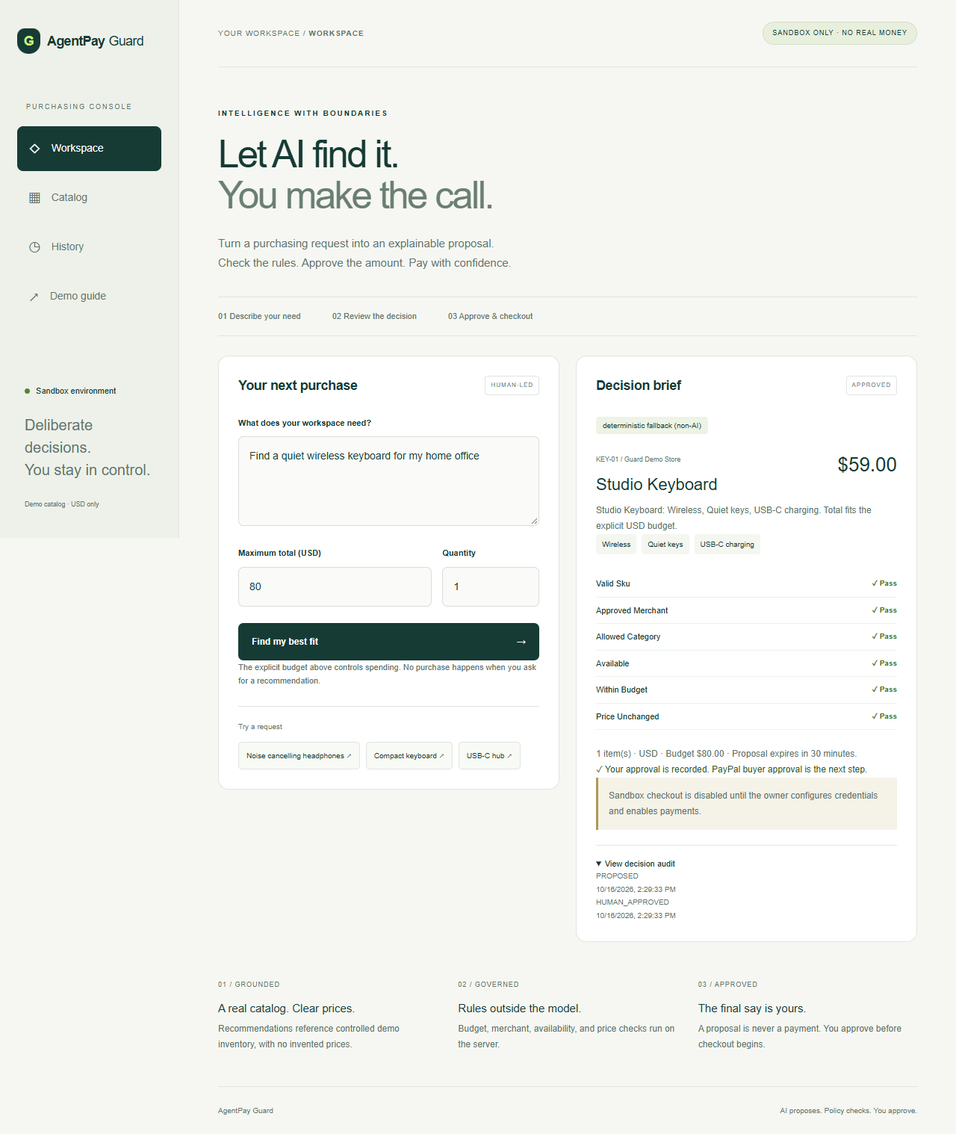
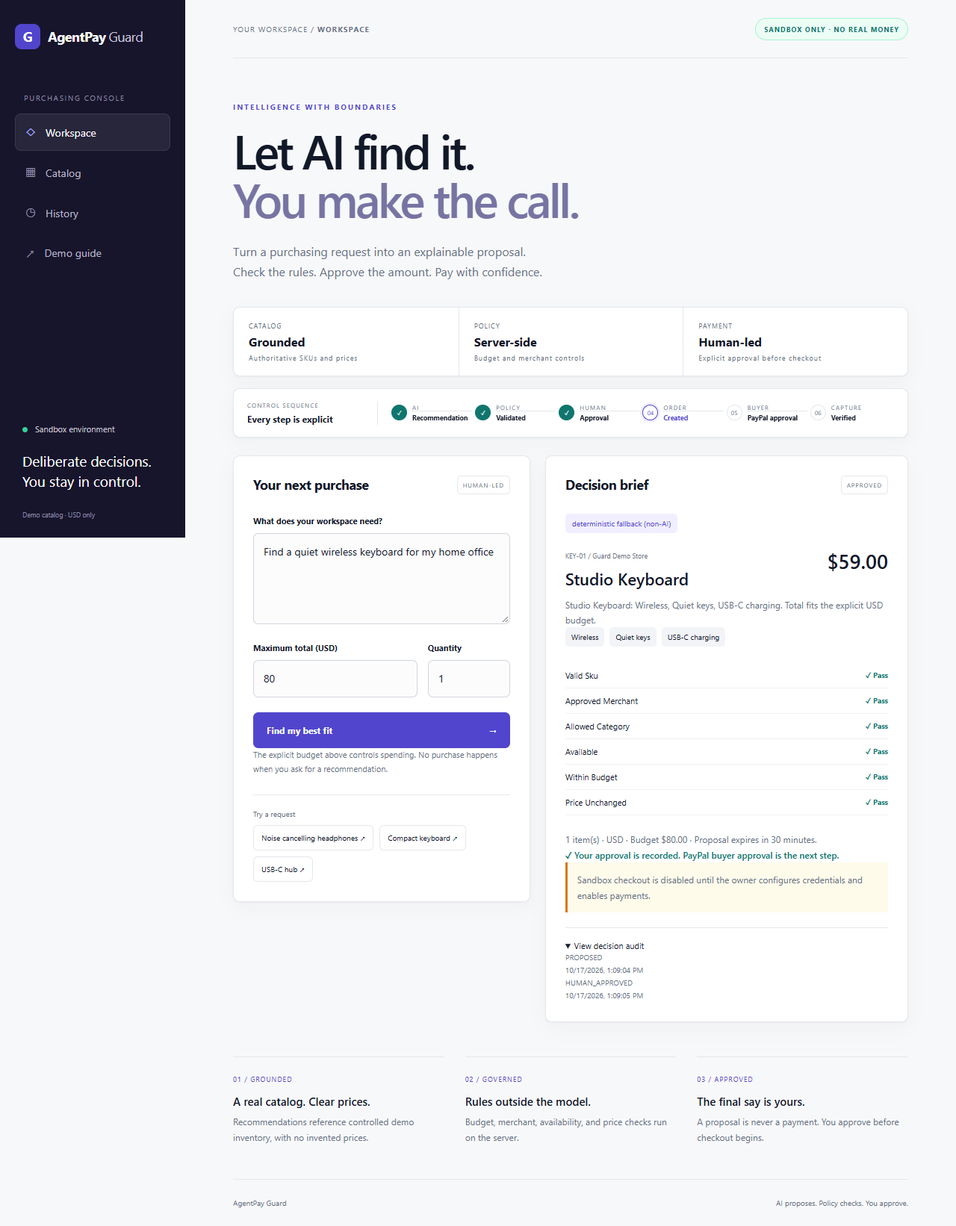
Redesign premium fintech purchase workflow

diff --git a/frontend/app/globals.css b/frontend/app/globals.css
@@ -1,2 +1,5 @@
 @import "tailwindcss";
-:root{--ink:#163b35;--muted:#61736d;--line:#dfe6df;--accent:#c9f27a}*{box-sizing:border-box}body{margin:0;background:#f6f7f2;color:var(--ink);font-family:Arial,Helvetica,sans-serif;font-size:14px}button,input,textarea{font:inherit}button,a,input,textarea,summary{-webkit-tap-highlight-color:transparent}button,summary{cursor:pointer}button:disabled{cursor:wait;opacity:.6}button:focus-visible,a:focus-visible,input:focus-visible,textarea:focus-visible,summary:focus-visible{outline:3px solid #648c29;outline-offset:4px}button{transition:background .15s}a{color:inherit;text-decoration:none}.shell{display:grid;grid-template-columns:240px 1fr;min-height:100vh}aside{padding:38px 23px;background:#edf1e9;border-right:1px solid var(--line);position:sticky;top:0;height:100vh;display:flex;flex-direction:column}.brand{font-weight:750;font-size:18px;display:flex;align-items:center;gap:5px;letter-spacing:-.7px}.brand>span:last-child{font-weight:400}.brand-mark{display:grid;place-items:center;width:31px;height:34px;border-radius:10px 10px 15px 15px;background:var(--ink);color:var(--accent);margin-right:4px}.workspace-label{font-size:9px;letter-spacing:2px;color:var(--muted);margin:65px 12px 18px}.nav{display:flex;gap:14px;align-items:center;border:0;background:transparent;color:var(--muted);width:100%;padding:15px;border-radius:8px;text-align:left;margin-bottom:6px}.nav span{font-size:20px}.nav.active{background:var(--ink);color:white}.nav:hover:not(.active){background:#e0e6dc}.sidebar-note{margin-top:auto;font-size:11px;padding:20px 10px 0}.dot{display:inline-block;width:7px;height:7px;background:#508532;border-radius:50%;margin-right:5px}.sidebar-note p{font-size:20px;line-height:1.5;margin:22px 0}.sidebar-note small{color:var(--muted)}main{padding:0 5%;min-width:0}header{height:90px;border-bottom:1px solid var(--line);display:flex;justify-content:space-between;align-items:center;font-size:10px;letter-spacing:1px;gap:12px}header>span:first-child{color:var(--muted)}.pill{background:#e8efdd;border:1px solid #d3dfc6;padding:8px 12px;border-radius:20px;font-size:9px;white-space:nowrap}.intro{margin:54px 0 32px}.eyebrow{font-size:10px;font-weight:700;letter-spacing:2px;margin-bottom:20px}h1{font-size:clamp(36px,4vw,60px);font-weight:500;letter-spacing:-2.7px;line-height:1.08;margin:18px 0 23px}h1 span{color:#6a7f72}p{color:var(--muted);line-height:1.75}h2{font-size:18px;font-weight:600;letter-spacing:-.4px}h3{font-size:22px;line-height:1.35;font-weight:500}.intro p{font-size:15px}.steps{display:flex;border-top:1px solid var(--line);border-bottom:1px solid var(--line);padding:17px 0;gap:42px;font-size:11px;color:var(--muted);margin-bottom:26px}.work-grid{display:grid;grid-template-columns:1fr 1fr;gap:22px;align-items:start}.card{background:#fff;border:1px solid var(--line);border-radius:14px;padding:26px}.card-heading{display:flex;align-items:center;justify-content:space-between;gap:8px;margin-bottom:28px}.card-heading h2{margin:0}.mini{font-size:8px;letter-spacing:1px;border:1px solid var(--line);border-radius:4px;padding:6px 7px;white-space:nowrap;color:var(--muted)}label{display:block;font-size:11px;font-weight:600;margin-bottom:10px}textarea,input{background:#fafbf8;border:1px solid #d7dfd7;border-radius:7px;color:var(--ink);padding:14px;width:100%;line-height:1.65}textarea{height:120px;resize:vertical}.fields{display:grid;grid-template-columns:2fr 1fr;gap:14px;margin:22px 0}.primary{background:var(--ink);color:white;padding:16px 18px;border:0;border-radius:7px;width:100%;text-align:left;font-size:12px;font-weight:600;display:flex;justify-content:space-between}.primary:hover{background:#28564b}.fine{font-size:11px;line-height:1.7}.suggestions{margin-top:24px;border-top:1px solid var(--line);padding-top:19px;display:flex;flex-wrap:wrap;gap:8px}.suggestions>span{width:100%;font-size:10px;color:var(--muted);margin-bottom:5px}.suggestions button,.secondary{border:1px solid var(--line);background:#f8faf5;border-radius:5px;padding:10px;font-size:10px;color:var(--ink)}.decision{min-height:460px}.empty{text-align:center;padding:20px 0}.orbit{height:85px;width:85px;display:grid;place-items:center;border:1px solid #d9e3cc;border-radius:50%;margin:10px auto 23px;font-size:48px;background:#f1f7e9;color:#75944a;box-shadow:0 0 0 12px #fafcf7}.empty p{font-size:12px;max-width:240px;margin:0 auto 35px}.trust-row{display:flex;gap:24px;justify-content:center;font-size:10px;color:var(--muted)}.principles{display:grid;grid-template-columns:repeat(3,1fr);gap:28px;margin:45px 0}.principles span{font-size:9px;letter-spacing:1px;color:var(--muted)}.principles h3{font-size:15px;margin:13px 0 7px}.principles p{font-size:12px;margin:0}.mode{font-size:10px;background:#edf3e5;border-radius:4px;padding:6px 9px}.product-title{display:flex;justify-content:space-between;gap:12px;margin-top:24px}.product-title small{font-size:9px;color:var(--muted)}.product-title h3{margin:10px 0}.product-title>strong{font-size:26px;font-weight:500;white-space:nowrap}.decision>p{font-size:12px}.attributes{display:flex;flex-wrap:wrap;gap:7px}.attributes span{font-size:10px;padding:6px 8px;background:#f4f6f0;border-radius:4px}.checks{margin:22px 0}.checks>div{display:flex;justify-content:space-between;padding:9px 0;border-bottom:1px solid #edf0e9;font-size:11px;text-transform:capitalize}.checks strong{color:#467222;font-size:10px}.approval{color:#326125}.config-note{background:#f5f2e7;border-left:3px solid #b09a51;padding:14px;font-size:12px}details{border-top:1px solid var(--line);padding-top:16px;margin-top:20px;font-size:11px}.audit{display:flex;flex-direction:column;font-size:10px}.audit time{color:var(--muted)}.catalog{display:grid;grid-template-columns:repeat(3,1fr);gap:18px;margin:32px 0}.catalog h2{margin:16px 0}.catalog small{color:var(--muted);font-size:10px}.catalog ul{padding-left:16px;line-height:2;font-size:12px;color:var(--muted)}.product-icon{height:110px;background:#edf3e5;display:grid;place-items:center;font-size:50px;margin-bottom:20px;border-radius:8px}.price{font-size:25px;font-weight:500}.catalog .secondary{width:100%}main>section:not(.intro):not(.principles){margin-top:45px}.history{margin:20px 0;display:flex;flex-wrap:wrap;justify-content:space-between;align-items:center;gap:15px}.history details{width:100%}.guide{max-width:800px}.guide h2{margin-top:28px}.guide h2:first-child{margin-top:0}.notice{position:fixed;bottom:24px;right:24px;left:264px;z-index:20;background:var(--ink);color:white;border-radius:8px;padding:18px 45px 18px 20px;font-size:13px;box-shadow:0 8px 30px #0002}.notice button{position:absolute;right:15px;top:12px;color:white;font-size:24px;background:none;border:0}footer{display:flex;justify-content:space-between;border-top:1px solid var(--line);padding:24px 0;margin-top:38px;font-size:10px;color:var(--muted)}@media(min-width:1600px){main{max-width:1350px}}@media(max-width:1100px){.shell{grid-template-columns:190px 1fr}aside{padding:30px 14px}.brand{font-size:15px}.work-grid{grid-template-columns:1fr}.decision{min-height:360px}.catalog{grid-template-columns:repeat(2,1fr)}.notice{left:210px}}@media(max-width:700px){.shell{display:block}aside{position:static;height:auto;padding:18px;border-right:0;border-bottom:1px solid var(--line)}.workspace-label,.sidebar-note{display:none}nav{display:flex;gap:5px;margin-top:20px}.nav{font-size:11px;padding:10px;justify-content:center;margin:0}.nav span{display:none}main{padding:0 20px}header{height:70px;font-size:8px}.pill{font-size:7px;padding:7px}.intro{margin-top:35px}h1{letter-spacing:-1.7px}.steps{gap:12px;font-size:9px;justify-content:space-between}.card{padding:22px}.principles{grid-template-columns:1fr;gap:20px}.catalog{grid-template-columns:1fr}.notice{left:16px;right:16px;bottom:16px}.history{align-items:flex-start}footer{font-size:9px;gap:14px}}@media(prefers-reduced-motion:reduce){*{transition:none!important}}
+:root{--bg:#f7f8fa;--paper:#fff;--ink:#111827;--muted:#667085;--line:#e4e7ec;--violet:#5145cd;--violet-soft:#f1efff;--green:#0f766e;--green-soft:#ecfdf5;--amber:#d97706;--amber-soft:#fffbeb;--nav:#17152b;--shadow:0 1px 2px #1018280a,0 8px 24px #10182808}*{box-sizing:border-box}html{scroll-behavior:smooth}body{margin:0;background:var(--bg);color:var(--ink);font:14px Inter,"Geist Sans",ui-sans-serif,system-ui,sans-serif;-webkit-font-smoothing:antialiased}button,input,textarea{font:inherit}button,a,input,textarea,summary{-webkit-tap-highlight-color:transparent}button,summary{cursor:pointer}button:disabled{cursor:wait;opacity:.55}button:focus-visible,a:focus-visible,input:focus-visible,textarea:focus-visible,summary:focus-visible{outline:3px solid #a5b4fc;outline-offset:3px}button{transition:.15s}a{color:inherit;text-decoration:none}.shell{display:grid;grid-template-columns:248px minmax(0,1fr);min-height:100vh}aside{padding:32px 20px 24px;background:var(--nav);color:#fff;position:sticky;top:0;height:100vh;display:flex;flex-direction:column}.brand{font-weight:720;font-size:18px;display:flex;align-items:center;gap:4px;letter-spacing:-.5px}.brand>span:last-child{font-weight:400;color:#c8c5dc}.brand-mark{display:grid;place-items:center;width:34px;height:34px;border-radius:9px;background:var(--violet);color:#fff;margin-right:6px}.workspace-label{font-size:10px;letter-spacing:1.6px;color:#8f8ba8;margin:58px 12px 14px}.nav{display:flex;gap:13px;align-items:center;border:1px solid transparent;background:transparent;color:#b9b6ca;width:100%;padding:12px 13px;border-radius:8px;text-align:left;margin-bottom:4px}.nav span{font-size:17px;color:#8f8ba8}.nav.active{background:#ffffff12;border-color:#ffffff16;color:#fff}.nav.active span{color:#a9a2ff}.nav:hover:not(.active){background:#ffffff0a;color:#fff}.sidebar-note{margin-top:auto;font-size:11px;padding:20px 10px 0;color:#c9c6d6}.dot{display:inline-block;width:7px;height:7px;background:#34d399;border-radius:50%;margin-right:7px}.sidebar-note p{font-size:19px;line-height:1.45;margin:22px 0;color:#fff}.sidebar-note small{color:#8f8ba8}main{padding:0 clamp(24px,5vw,72px);min-width:0;max-width:1440px;width:100%}header{height:78px;border-bottom:1px solid var(--line);display:flex;justify-content:space-between;align-items:center;font-size:10px;letter-spacing:1.1px;gap:12px}header>span:first-child{color:var(--muted)}.pill{background:var(--green-soft);border:1px solid #a7f3d0;color:var(--green);padding:8px 11px;border-radius:999px;font-size:9px;white-space:nowrap;font-weight:700}.intro{margin:58px 0 34px;max-width:850px}.eyebrow{font-size:10px;font-weight:750;letter-spacing:2px;color:var(--violet);margin-bottom:18px}h1{font-size:clamp(38px,5vw,68px);font-weight:520;letter-spacing:-3.4px;line-height:1.02;margin:16px 0 24px}h1 span{color:#7774a3}p{color:var(--muted);line-height:1.7}h2{font-size:18px;font-weight:650;letter-spacing:-.4px}h3{font-size:22px;line-height:1.35;font-weight:560}.intro p{font-size:16px}.overview-strip{display:grid;grid-template-columns:repeat(3,1fr);background:var(--paper);border:1px solid var(--line);border-radius:9px;margin-bottom:16px;box-shadow:var(--shadow)}.metric{padding:18px 20px;display:grid;gap:5px}.metric+.metric{border-left:1px solid var(--line)}.metric>span,.metric small{font-size:9px;letter-spacing:1px;color:var(--muted)}.metric strong{font-size:16px}.lifecycle{background:var(--paper);border:1px solid var(--line);border-radius:9px;padding:16px 18px;margin-bottom:24px;display:grid;grid-template-columns:175px 1fr;gap:18px;align-items:center;box-shadow:var(--shadow)}.lifecycle-copy{display:grid;gap:5px;border-right:1px solid var(--line)}.lifecycle-copy span,.lifecycle li small{font-size:8px;letter-spacing:1.2px;color:var(--muted)}.lifecycle-copy strong{font-size:12px}.lifecycle ol{list-style:none;padding:0;margin:0;display:grid;grid-template-columns:repeat(6,1fr)}.lifecycle li{display:flex;align-items:center;gap:7px;min-width:0;position:relative}.lifecycle li:not(:last-child)::after{content:"";position:absolute;left:27px;right:4px;top:10px;height:1px;background:var(--line)}.stage-index{width:21px;height:21px;border-radius:50%;border:1px solid var(--line);background:#fff;display:grid;place-items:center;font-size:8px;z-index:1;color:var(--muted);flex:0 0 auto}.lifecycle li>span:last-child{display:grid;gap:2px}.lifecycle li strong{font-size:9px;white-space:nowrap}.lifecycle li.done .stage-index{background:var(--green);border-color:var(--green);color:#fff}.lifecycle li.current .stage-index{border-color:var(--violet);color:var(--violet);box-shadow:0 0 0 3px var(--violet-soft)}.lifecycle li.current strong{color:var(--violet)}.work-grid{display:grid;grid-template-columns:minmax(0,.9fr) minmax(0,1.1fr);gap:20px;align-items:start}.card{background:var(--paper);border:1px solid var(--line);border-radius:9px;padding:26px;box-shadow:var(--shadow)}.card-heading{display:flex;align-items:center;justify-content:space-between;gap:8px;margin-bottom:28px}.card-heading h2{margin:0}.mini,.status-badge{font-size:8px;letter-spacing:1px;border:1px solid var(--line);border-radius:5px;padding:6px 7px;white-space:nowrap;color:var(--muted)}label{display:block;font-size:11px;font-weight:650;margin-bottom:9px}textarea,input{background:#fcfcfd;border:1px solid #d0d5dd;border-radius:7px;color:var(--ink);padding:13px;width:100%;line-height:1.6}textarea:hover,input:hover{border-color:#98a2b3}textarea:focus,input:focus{border-color:var(--violet);background:#fff}textarea{height:122px;resize:vertical}.fields{display:grid;grid-template-columns:2fr 1fr;gap:14px;margin:20px 0}.primary{background:var(--violet);color:#fff;padding:15px 17px;border:1px solid var(--violet);border-radius:7px;width:100%;text-align:left;font-size:12px;font-weight:650;display:flex;justify-content:space-between}.primary:hover{background:#4338b8}.fine{font-size:11px}.suggestions{margin-top:24px;border-top:1px solid var(--line);padding-top:18px;display:flex;flex-wrap:wrap;gap:8px}.suggestions>span{width:100%;font-size:10px;color:var(--muted)}.suggestions button,.secondary{border:1px solid var(--line);background:#fff;border-radius:6px;padding:9px 10px;font-size:10px;color:var(--ink)}.suggestions button:hover,.secondary:hover{border-color:#a9a2ff;background:var(--violet-soft);color:var(--violet)}.decision{min-height:470px}.empty{text-align:center;padding:22px 0}.orbit{height:78px;width:78px;display:grid;place-items:center;border:1px solid #d9d6ff;border-radius:50%;margin:10px auto 23px;font-size:42px;background:var(--violet-soft);color:var(--violet);box-shadow:0 0 0 10px #faf9ff}.empty p{font-size:12px;max-width:270px;margin:0 auto 34px}.trust-row{display:flex;gap:24px;justify-content:center;font-size:10px;color:var(--green)}.principles{display:grid;grid-template-columns:repeat(3,1fr);gap:28px;margin:46px 0}.principles>div{border-top:1px solid var(--line);padding-top:18px}.principles span{font-size:9px;letter-spacing:1px;color:var(--violet)}.principles h3{font-size:15px;margin:12px 0 7px}.principles p{font-size:12px;margin:0}.mode{font-size:10px;background:var(--violet-soft);color:var(--violet);border-radius:5px;padding:6px 9px}.product-title{display:flex;justify-content:space-between;gap:12px;margin-top:24px}.product-title small{font-size:9px;color:var(--muted)}.product-title h3{margin:9px 0}.product-title>strong{font-size:27px;font-weight:520;white-space:nowrap}.decision>p{font-size:12px}.attributes{display:flex;flex-wrap:wrap;gap:7px}.attributes span{font-size:10px;padding:6px 8px;background:#f2f4f7;border-radius:5px}.checks{margin:22px 0}.checks>div{display:flex;justify-content:space-between;padding:9px 0;border-bottom:1px solid #f0f1f3;font-size:11px;text-transform:capitalize}.checks strong{color:var(--green);font-size:10px}.approval{color:var(--green);font-weight:600}.config-note{background:var(--amber-soft);border-left:3px solid var(--amber);padding:13px;font-size:12px}details{border-top:1px solid var(--line);padding-top:16px;margin-top:20px;font-size:11px}.audit{display:flex;flex-direction:column;font-size:10px}.audit time{color:var(--muted)}.catalog{display:grid;grid-template-columns:repeat(3,1fr);gap:18px;margin:32px 0}.catalog h2{margin:16px 0}.catalog small{color:var(--muted);font-size:10px}.catalog ul{padding-left:16px;line-height:2;font-size:12px;color:var(--muted)}.product-icon{height:108px;background:var(--violet-soft);color:var(--violet);display:grid;place-items:center;font-size:46px;margin-bottom:20px;border-radius:8px}.price{font-size:25px;font-weight:520}.catalog .secondary{width:100%}main>section:not(.intro):not(.principles):not(.lifecycle){margin-top:45px}.history{margin:20px 0;display:flex;flex-wrap:wrap;justify-content:space-between;align-items:center;gap:15px}.history details{width:100%}.guide{max-width:800px}.guide h2{margin-top:28px}.notice{position:fixed;bottom:24px;right:24px;left:272px;z-index:20;background:var(--nav);color:#fff;border-radius:8px;padding:17px 45px 17px 20px;font-size:13px;box-shadow:0 12px 32px #10182822}.notice button{position:absolute;right:15px;top:10px;color:#fff;font-size:24px;background:none;border:0}footer{display:flex;justify-content:space-between;border-top:1px solid var(--line);padding:24px 0;margin-top:38px;font-size:10px;color:var(--muted)}
+@media(max-width:1150px){.shell{grid-template-columns:208px 1fr}aside{padding:28px 14px}.work-grid{grid-template-columns:1fr}.catalog{grid-template-columns:repeat(2,1fr)}.lifecycle{grid-template-columns:1fr}.lifecycle-copy{border-right:0;border-bottom:1px solid var(--line);padding-bottom:12px}.notice{left:230px}}
+@media(max-width:760px){.shell{display:block}aside{position:static;height:auto;padding:16px 18px}.workspace-label,.sidebar-note{display:none}nav{display:flex;gap:4px;margin-top:16px;overflow-x:auto}.nav{font-size:11px;padding:9px 11px;justify-content:center;margin:0;white-space:nowrap}.nav span{display:none}main{padding:0 18px}header{height:64px;font-size:8px}.pill{font-size:7px;padding:7px}.intro{margin-top:36px}h1{letter-spacing:-2px}.overview-strip{grid-template-columns:1fr}.metric+.metric{border-left:0;border-top:1px solid var(--line)}.lifecycle{padding:15px}.lifecycle ol{display:flex;overflow-x:auto;padding:4px 2px 8px;gap:16px}.lifecycle li{min-width:104px}.lifecycle li:not(:last-child)::after{right:-14px}.card{padding:21px}.principles{grid-template-columns:1fr;gap:20px}.catalog{grid-template-columns:1fr}.notice{left:16px;right:16px;bottom:16px}.history{align-items:flex-start}footer{font-size:9px;gap:14px}}
+@media(prefers-reduced-motion:reduce){*{scroll-behavior:auto!important;transition:none!important}}

diff --git a/frontend/app/page.tsx b/frontend/app/page.tsx
@@ -1,6 +1,7 @@
 'use client';
 import Link from 'next/link';
 import { useCallback, useEffect, useRef, useState } from 'react';
+import { Metric, PurchaseLifecycle } from './components/fintech-ui';
 
 type Product = { sku: string; name: string; category: string; cents: number; currency: string; merchant: string; attributes: string[] };
 type Proposal = { id: string; product: Product; quantity: number; total_cents: number; budget_cents: number; policy: Record<string, boolean>; reasoning: string; mode: string; state: string; order_id: string | null; audit: { event: string; at: string }[] };
@@ -75,7 +76,12 @@ export default function Home() {
     <aside><Link className="brand" href="/" aria-label="AgentPay Guard home"><span className="brand-mark">G</span> AgentPay<span>Guard</span></Link><div className="workspace-label">PURCHASING CONSOLE</div><nav>{['Workspace', 'Catalog', 'History', 'Demo guide'].map((name, i) => <button className={tab === name ? 'nav active' : 'nav'} key={name} onClick={() => void navigate(name)}><span aria-hidden="true">{['◇', '▦', '◷', '↗'][i]}</span>{name}</button>)}</nav><div className="sidebar-note"><span className="dot" /> Sandbox environment<p>Deliberate decisions.<br />You stay in control.</p><small>Demo catalog · USD only</small></div></aside>
     <main><header><span>YOUR WORKSPACE / <strong>{tab.toUpperCase()}</strong></span><span className="pill">SANDBOX ONLY · NO REAL MONEY</span></header>
       {tab === 'Workspace' && <><section className="intro"><div className="eyebrow">INTELLIGENCE WITH BOUNDARIES</div><h1>Let AI find it.<br /><span>You make the call.</span></h1><p>Turn a purchasing request into an explainable proposal.<br />Check the rules. Approve the amount. Pay with confidence.</p></section>
-      <div className="steps">{['01  Describe your need', '02  Review the decision', '03  Approve & checkout'].map(s => <span key={s}>{s}</span>)}</div>
+      <div className="overview-strip" aria-label="Product assurances">
+        <Metric label="CATALOG" value="Grounded" detail="Authoritative SKUs and prices" />
+        <Metric label="POLICY" value="Server-side" detail="Budget and merchant controls" />
+        <Metric label="PAYMENT" value="Human-led" detail="Explicit approval before checkout" />
+      </div>
+      <PurchaseLifecycle state={proposal?.state} />
       <div className="work-grid"><section className="card request-card"><div className="card-heading"><h2>Your next purchase</h2><span className="mini">HUMAN-LED</span></div><form onSubmit={e => { e.preventDefault(); void perform(async () => { setProposal(null); const result = await api('/proposals', { request, budget_cents: Math.round(Number(budget) * 100), quantity: Number(quantity) }); if (result.clarification) setNotice(result.clarification + ' · ' + result.mode); else setProposal(result); }); }}><label htmlFor="request">What does your workspace need?</label><textarea id="request" value={request} onChange={e => setRequest(e.target.value)} maxLength={1000} minLength={3} required /><div className="fields"><div><label htmlFor="budget">Maximum total (USD)</label><input id="budget" type="number" min="0.01" max="1000" step="0.01" value={budget} onChange={e => setBudget(e.target.value)} required /></div><div><label htmlFor="quantity">Quantity</label><input id="quantity" type="number" min="1" max="10" value={quantity} onChange={e => setQuantity(e.target.value)} required /></div></div><button className="primary" disabled={busy || !ready}>{busy ? 'Working…' : 'Find my best fit'} <span aria-hidden="true">→</span></button></form><p className="fine">The explicit budget above controls spending. No purchase happens when you ask for a recommendation.</p><div className="suggestions"><span>Try a request</span>{['Noise cancelling headphones', 'Compact keyboard', 'USB-C hub'].map(s => <button key={s} onClick={() => setRequest('Find ' + s.toLowerCase())}>{s} ↗</button>)}</div></section>
       <section className="card decision"><div className="card-heading"><h2>Decision brief</h2><span className="mini">{proposal ? proposal.state.replaceAll('_', ' ') : 'AWAITING REQUEST'}</span></div>{!proposal ? <div className="empty"><div className="orbit" aria-hidden="true">◇</div><h3>A good purchase starts<br />with a clear decision.</h3><p>Your recommendation, evidence, and policy checks will appear here.</p><div className="trust-row"><span>✓ Budget checked</span><span>✓ Human approved</span></div></div> : <><span className="mode">{proposal.mode}</span><div className="product-title"><div><small>{proposal.product.sku} / {proposal.product.merchant}</small><h3>{proposal.product.name}</h3></div><strong>{money(proposal.total_cents)}</strong></div><p>{proposal.reasoning}</p><div className="attributes">{proposal.product.attributes.map(a => <span key={a}>{a}</span>)}</div><div className="checks">{Object.entries(proposal.policy).map(([name, pass]) => <div key={name}><span>{name.replaceAll('_', ' ')}</span><strong>{pass ? '✓ Pass' : '✕ Blocked'}</strong></div>)}</div><p className="fine">{proposal.quantity} item(s) · USD · Budget {money(proposal.budget_cents)} · Proposal expires in 30 minutes.</p>{proposal.state === 'PROPOSED' && <button className="primary" disabled={busy} onClick={() => void perform(async () => setProposal(await api(`/proposals/${proposal.id}/approve`, { total_cents: proposal.total_cents, currency: 'USD', confirmed: true })))}>Approve {money(proposal.total_cents)} USD</button>}{proposal.state === 'APPROVED' && <><p className="approval">✓ Your approval is recorded. PayPal buyer approval is the next step.</p>{!config.payments_enabled && <p className="config-note">Sandbox checkout is disabled until the owner configures credentials and enables payments.</p>}<div ref={checkout} /></>}{proposal.state === 'COMPLETED' && <p className="approval">✓ Sandbox capture verified</p>}<details><summary>View decision audit</summary>{proposal.audit.map((e, i) => <p className="audit" key={i}>{e.event} <time>{new Date(e.at).toLocaleString()}</time></p>)}</details></> }</section></div>
       <section className="principles"><div><span>01 / GROUNDED</span><h3>A real catalog. Clear prices.</h3><p>Recommendations reference controlled demo inventory, with no invented prices.</p></div><div><span>02 / GOVERNED</span><h3>Rules outside the model.</h3><p>Budget, merchant, availability, and price checks run on the server.</p></div><div><span>03 / APPROVED</span><h3>The final say is yours.</h3><p>A proposal is never a payment. You approve before checkout begins.</p></div></section></>}

diff --git a/frontend/app/components/fintech-ui.tsx b/frontend/app/components/fintech-ui.tsx
@@ -1,0 +1,25 @@
+import type { ReactNode } from 'react';
+
+export function StatusBadge({ children, tone = 'neutral' }: { children: ReactNode; tone?: 'neutral' | 'success' | 'pending' }) {
+  return <span className={`status-badge ${tone}`}>{children}</span>;
+}
+
+const stages = [
+  ['AI', 'Recommendation'], ['POLICY', 'Validated'], ['HUMAN', 'Approval'],
+  ['ORDER', 'Created'], ['BUYER', 'PayPal approval'], ['CAPTURE', 'Verified'],
+] as const;
+
+export function PurchaseLifecycle({ state }: { state?: string }) {
+  const complete = state === 'COMPLETED' ? 6 : state === 'ORDER_CREATED' ? 4 : state === 'APPROVED' ? 3 : state === 'PROPOSED' ? 2 : 0;
+  return <section className="lifecycle" aria-label="Purchase lifecycle">
+    <div className="lifecycle-copy"><span>CONTROL SEQUENCE</span><strong>Every step is explicit</strong></div>
+    <ol>{stages.map(([code, label], index) => <li key={code} className={index < complete ? 'done' : index === complete ? 'current' : ''}>
+      <span className="stage-index">{index < complete ? '✓' : String(index + 1).padStart(2, '0')}</span>
+      <span><small>{code}</small><strong>{label}</strong></span>
+    </li>)}</ol>
+  </section>;
+}
+
+export function Metric({ label, value, detail }: { label: string; value: string; detail: string }) {
+  return <div className="metric"><span>{label}</span><strong>{value}</strong><small>{detail}</small></div>;
+}

diff --git a/docs/DESIGN.md b/docs/DESIGN.md
@@ -1,0 +1,49 @@
+# AgentPay Guard design system
+
+## Direction
+
+AgentPay Guard uses a light financial workspace with a dark ink-violet navigation rail. It combines Mercury's premium restraint, Linear's precise hierarchy, Ramp's approval clarity, and Cursor's contextual assistant pattern without copying any product's branding or layout.
+
+The primary experience runs from a natural-language request to a grounded proposal, deterministic policy validation, explicit human approval, PayPal buyer approval, and verified capture. The interface never presents a `CREATED` PayPal order as paid.
+
+## Tokens
+
+| Token | Value | Use |
+| --- | --- | --- |
+| Canvas | `#F7F8FA` | Application background |
+| Surface | `#FFFFFF` | Cards and controls |
+| Primary text | `#111827` | Headings and values |
+| Muted text | `#667085` | Supporting copy |
+| Accent | `#5145CD` | Primary actions and active state |
+| Verified | `#0F766E` | Passed policy and verified payment |
+| Pending | `#D97706` | Review, configuration, and pending states |
+| Border | `#E4E7EC` | Dividers and component outlines |
+| Navigation | `#17152B` | Persistent application rail |
+
+Typography uses Inter with Geist Sans and system fallbacks. Spacing follows an 8px base rhythm with 4px adjustments for compact labels. Controls use 6–9px radii. Shadows only separate surfaces.
+
+## Components
+
+- **Application rail:** product identity, four task destinations, and a persistent sandbox indicator.
+- **Assurance metrics:** concise facts covering catalog grounding, server policy, and human approval.
+- **Purchase lifecycle:** six explicit stages. Completed stages use teal, the current stage uses indigo, and future stages remain neutral.
+- **Request card:** contextual AI input with explicit budget and quantity boundaries.
+- **Decision brief:** authoritative SKU, merchant, amount, model mode, attributes, policy results, and audit evidence.
+- **Status badge:** compact uppercase state label for proposals and transactions.
+- **Notice:** high-contrast status region announced with `role="status"`.
+
+## Responsive and accessibility behavior
+
+Below 760px, the side rail becomes a horizontal navigation header, cards stack, metrics become rows, and the lifecycle becomes a horizontally scrollable sequence. Controls have visible keyboard focus. Reduced-motion preferences disable transitions.
+
+## Content rules
+
+- Proposal, approval, order creation, buyer approval, capture, and completion are separate states.
+- Prices and merchants come from the backend catalog.
+- Policy results are server decisions, not model claims.
+- PayPal's official SDK owns the checkout component.
+- Empty history remains empty; no sample transactions or decorative analytics are invented.
+
+## Reference notes
+
+Independent getdesign.md analyses for Mercury, Linear, Ramp, and Cursor informed the direction. AgentPay Guard retains its own color system, hierarchy, copy, and component composition.
